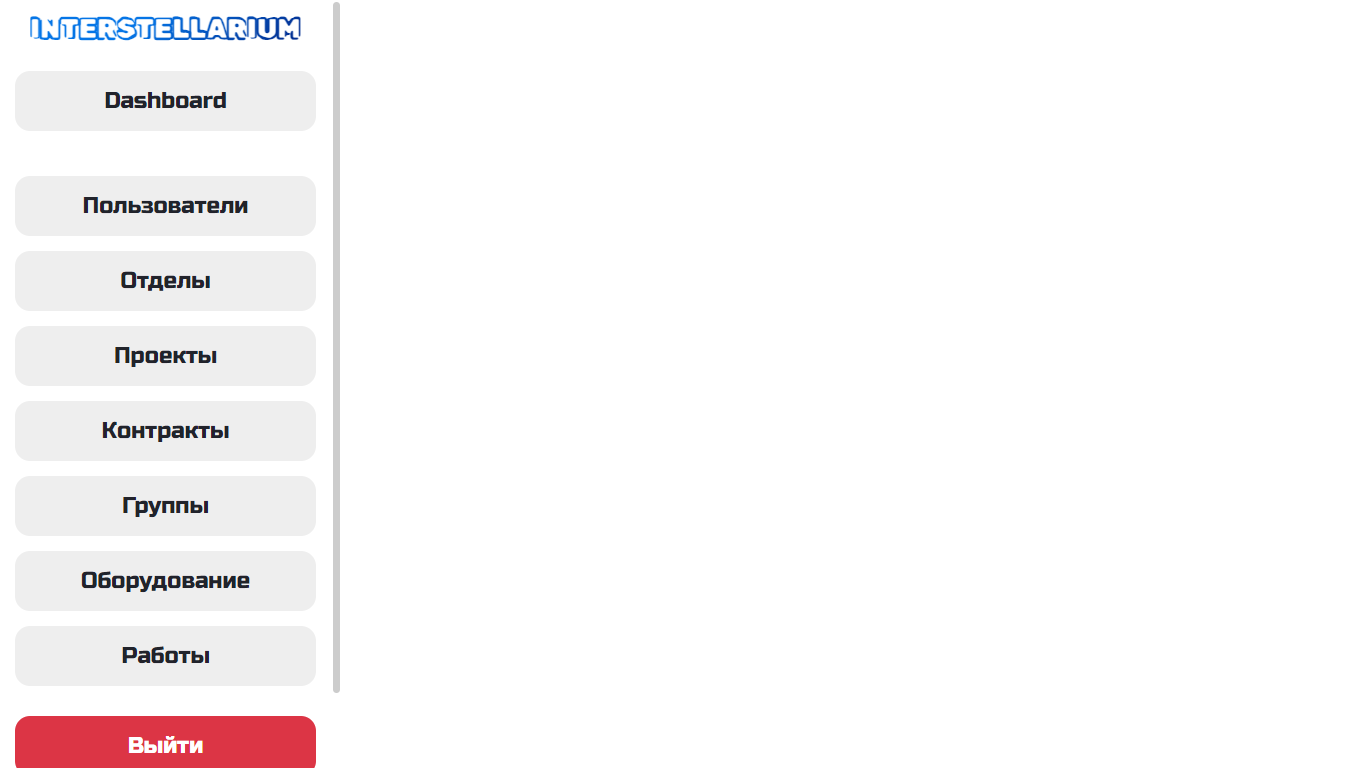
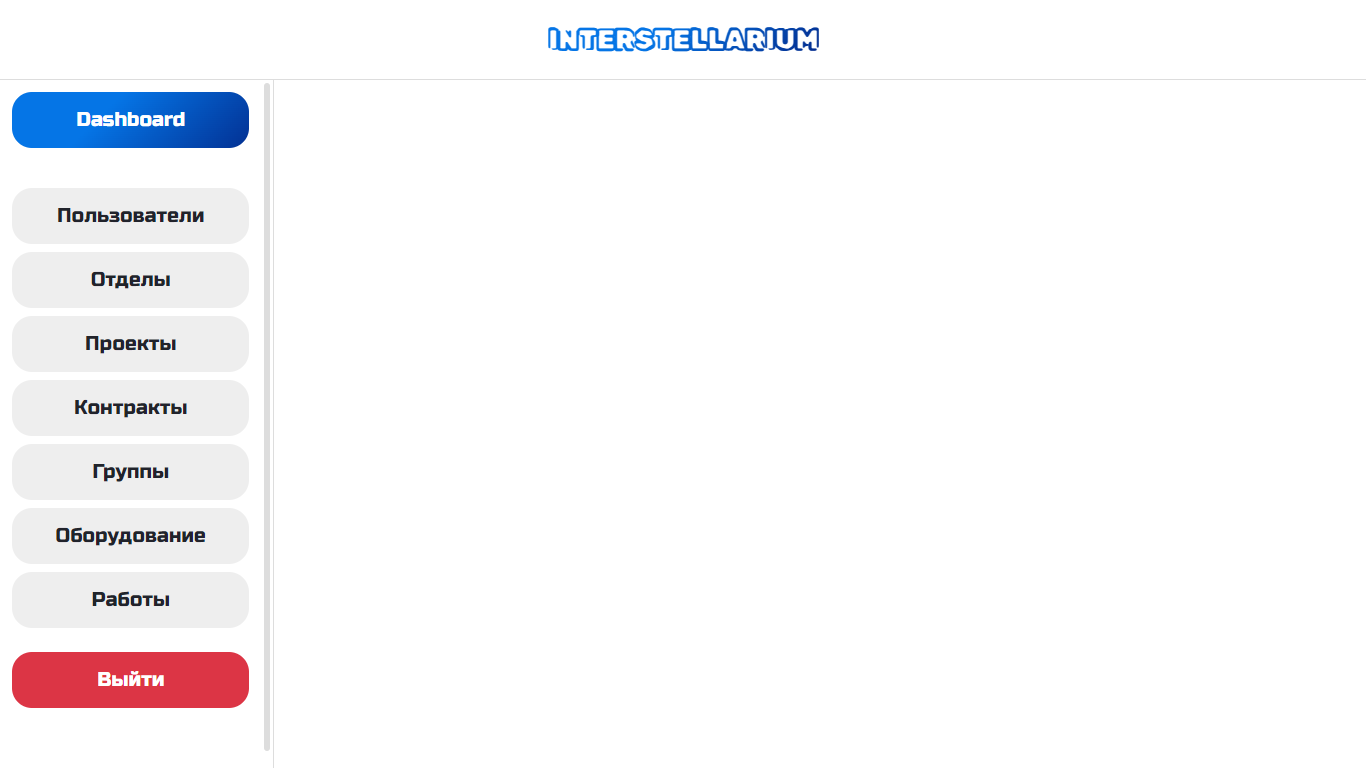
Update styles and components

diff --git a/src/styles/dashboard.css b/src/styles/dashboard.css
@@ -11,17 +11,37 @@
     width: 100%;
 }
 
-.interstellarium-dashboard-sidebar {
+.interstellarium-dashboard-header {
     position: fixed;
     top: 0;
-    bottom: 0;
     left: 0;
+    right: 0;
+    height: 5rem;
+    display: flex;
+    justify-content: center;
+    align-items: center;
+    border-bottom: 1px solid #DDDDDD;
+}
+
+.interstellarium-dashboard-sidebar, .interstellarium-dashboard-main {
+    position: fixed;
+    top: 5rem;
+    bottom: 0;
     width: 100%;
     overflow: auto;
     display: flex;
     flex-direction: column;
     align-items: stretch;
     background-color: white;
+}
+
+.interstellarium-dashboard-sidebar {
+    left: 0;
+}
+
+.interstellarium-dashboard-main {
+    border-left: 1px solid #DDDDDD;
+    right: 0;
 }
 
 .interstellarium-dashboard-sidebar.hidden,
@@ -36,16 +56,6 @@
     padding-bottom: 5rem;
 }
 
-.interstellarium-dashboard-main {
-    position: fixed;
-    top: 0;
-    bottom: 0;
-    right: 0;
-    width: 100%;
-    overflow: auto;
-    background-color: white;
-}
-
 .interstellarium-dashboard-footer {
     position: fixed;
     bottom: 0;
@@ -57,19 +67,29 @@
     align-items: center;
 }
 
-.interstellarium-dashboard-header {
-    display: flex;
-    justify-content: center;
-    align-items: center;
-    flex-direction: column;
+.interstellarium-dashboard-sidebar::-webkit-scrollbar,
+.interstellarium-dashboard-main::-webkit-scrollbar {
+    width: 12px;
+}
+
+.interstellarium-dashboard-sidebar::-webkit-scrollbar-track,
+.interstellarium-dashboard-main::-webkit-scrollbar-track {
+    background: #FFF;
+}
+
+.interstellarium-dashboard-sidebar::-webkit-scrollbar-thumb,
+.interstellarium-dashboard-main::-webkit-scrollbar-thumb {
+    background-color: #DDDDDD;
+    border-radius: 20px;
+    border: 3px solid #FFF;
 }
 
 .interstellarium-dashboard-sidebar-card {
-    min-height: 8rem;
+    min-height: 6rem;
     border-radius: 2rem;
     background-color: #EEEEEE;
     color: white;
-    padding: 1rem;
+    padding: 0.75rem;
     margin-bottom: -0.5rem;
     background-clip: content-box;
     cursor: pointer;
@@ -86,33 +106,16 @@
     font-family: var(--interstellarium-work-font-family), sans-serif;
     text-decoration: none;
     color: var(--interstellarium-dark);
-    font-size: 1.75rem;
+    font-size: 1.5rem;
 }
 
 @media (min-width: 768px) {
     .interstellarium-dashboard-sidebar {
-        width: 25%;
-    }
-
-    .interstellarium-dashboard-sidebar::-webkit-scrollbar,
-    .interstellarium-dashboard-main::-webkit-scrollbar {
-        width: 12px;
-    }
-
-    .interstellarium-dashboard-sidebar::-webkit-scrollbar-track,
-    .interstellarium-dashboard-main::-webkit-scrollbar-track {
-        background: #FFF;
-    }
-
-    .interstellarium-dashboard-sidebar::-webkit-scrollbar-thumb,
-    .interstellarium-dashboard-main::-webkit-scrollbar-thumb {
-        background-color: #CCC;
-        border-radius: 20px;
-        border: 3px solid #FFF;
+        width: 40%;
     }
 
     .interstellarium-dashboard-main {
-        width: 75%;
+        width: 60%;
     }
 
     .interstellarium-dashboard-footer {
@@ -124,21 +127,30 @@
         display: flex;
     }
 
-    .interstellarium-dashboard-logo {
-        font-size: 2vw;
-    }
-
     .interstellarium-dashboard-sidebar-card {
         min-height: 6rem;
         margin-bottom: -1rem;
     }
 
     .interstellarium-dashboard-sidebar-card-link {
-        font-size: 1rem;
+        font-size: 1.5rem;
     }
 }
 
 @media (min-width: 992px) {
+    .interstellarium-dashboard-sidebar {
+        width: 25%;
+    }
+
+    .interstellarium-dashboard-main {
+        width: 75%;
+    }
+
+    .interstellarium-dashboard-sidebar-card {
+        min-height: 5rem;
+        margin-bottom: -1rem;
+    }
+
     .interstellarium-dashboard-sidebar-card-link {
         font-size: 1.25rem;
     }
@@ -149,13 +161,21 @@
         width: 20%;
     }
 
+    .interstellarium-dashboard-main {
+        width: 80%;
+    }
+
     .interstellarium-dashboard-sidebar-card-link {
-        font-size: 1.5rem;
+        font-size: 1.25rem;
     }
 }
 
 @media (min-width: 1440px) {
     .interstellarium-dashboard-sidebar {
         width: 15%;
+    }
+
+    .interstellarium-dashboard-main {
+        width: 85%;
     }
 }

diff --git a/src/components/dashboard/Logo.vue b/src/components/dashboard/Logo.vue
@@ -6,7 +6,7 @@
 
 <template>
   <div class="interstellarium-dashboard-logo-wrapper">
-    <div class="interstellarium-dashboard-logo m-2">
+    <div class="interstellarium-dashboard-logo">
       INTERSTELLARIUM
     </div>
   </div>
@@ -15,7 +15,7 @@
 <style scoped>
 .interstellarium-dashboard-logo {
     font-family: var(--interstellarium-special-font-family), sans-serif;
-    font-size: max(2vw, 3.2vh);
+    font-size: 6vw;
     font-weight: 900;
     text-align: center;
     background: var(--interstellarium-gradient);
@@ -25,25 +25,33 @@
     color: var(--interstellarium-primary);
 }
 
+@media (min-width: 576px) {
+    .interstellarium-dashboard-logo {
+        font-size: 4.5vw;
+    }
+}
+
 @media (min-width: 768px) {
     .interstellarium-dashboard-logo {
-        font-size: 2vw;
+        font-size: 3vw;
     }
-  
-    .interstellarium-dashboard-main .interstellarium-dashboard-logo-wrapper {
-        display: none;
+}
+
+@media (min-width: 992px) {
+    .interstellarium-dashboard-logo {
+        font-size: 2vw;
     }
 }
 
 @media (min-width: 1200px) {
     .interstellarium-dashboard-logo {
-        font-size: 1.1vw;
+        font-size: 2vw;
     }
 }
 
 @media (min-width: 1440px) {
     .interstellarium-dashboard-logo {
-        font-size: 1.2vw;
+        font-size: 1.5vw;
     }
 }
 </style>

diff --git a/src/components/dashboard/Sidebar.vue b/src/components/dashboard/Sidebar.vue
@@ -27,11 +27,11 @@
 <template>
   <div class="interstellarium-dashboard-sidebar hidden" id="dashboard-sidebar">
     <div class="interstellarium-dashboard-header">
-      <DashboardLogo/>
+      <DashboardLogo></DashboardLogo>
     </div>
     <div class="interstellarium-dashboard-sidebar-content">
-      <div @click="this.$router.push({name: 'Dashboard'})" class="interstellarium-dashboard-sidebar-card col-12 mb-3">
-        <div class="interstellarium-link interstellarium-dashboard-sidebar-card-link">
+      <div @click="this.$router.push({name: 'Dashboard'})" class="interstellarium-dashboard-sidebar-card col-12 mb-3 bg-interstellarium">
+        <div class="interstellarium-link interstellarium-dashboard-sidebar-card-link text-white">
           Dashboard
         </div>
       </div>

diff --git a/src/components/dashboard/Main.vue b/src/components/dashboard/Main.vue
@@ -1,7 +1,7 @@
 <script>
   import DashboardShowSidebar from "./ShowSidebar.vue";
-  import DashboardLogo from "./Logo.vue";
-  
+  import DashboardLogo from "../../components/dashboard/Logo.vue";
+
   export default {
     components: {
       DashboardLogo,
@@ -13,13 +13,13 @@
 <template>
   <div class="interstellarium-dashboard-main" id="dashboard-main">
     <div class="interstellarium-dashboard-header">
-      <DashboardLogo/>
+      <DashboardLogo></DashboardLogo>
     </div>
     <div class="interstellarium-dashboard-main-content">
       <slot></slot>
     </div>
     <div class="interstellarium-dashboard-footer">
-      <DashboardShowSidebar/>
+      <DashboardShowSidebar></DashboardShowSidebar>
     </div>
   </div>
 </template>

diff --git a/src/pages/Equipment.vue b/src/pages/Equipment.vue
@@ -14,6 +14,11 @@
         document.getElementById('app').className = 'dashboard'
     },
     
+    beforeRouteLeave: function () {
+        document.body.classList.remove('dashboard')
+        document.getElementById('app').classList.remove('dashboard')
+    },
+    
     setup() {
       document.title = 'Оборудование | Interstellarium'
     },

diff --git a/src/pages/Users.vue b/src/pages/Users.vue
@@ -14,6 +14,11 @@
         document.getElementById('app').className = 'dashboard'
     },
     
+    beforeRouteLeave: function () {
+        document.body.classList.remove('dashboard')
+        document.getElementById('app').classList.remove('dashboard')
+    },
+    
     setup() {
       document.title = 'Пользователи | Interstellarium'
     },

diff --git a/src/pages/Contracts.vue b/src/pages/Contracts.vue
@@ -14,6 +14,11 @@
         document.getElementById('app').className = 'dashboard'
     },
     
+    beforeRouteLeave: function () {
+        document.body.classList.remove('dashboard')
+        document.getElementById('app').classList.remove('dashboard')
+    },
+    
     setup() {
       document.title = 'Контракты | Interstellarium'
     },

diff --git a/src/pages/Projects.vue b/src/pages/Projects.vue
@@ -14,6 +14,11 @@
         document.getElementById('app').className = 'dashboard'
     },
     
+    beforeRouteLeave: function () {
+        document.body.classList.remove('dashboard')
+        document.getElementById('app').classList.remove('dashboard')
+    },
+    
     setup() {
       document.title = 'Проекты | Interstellarium'
     },

diff --git a/src/pages/Departments.vue b/src/pages/Departments.vue
@@ -14,6 +14,11 @@
         document.getElementById('app').className = 'dashboard'
     },
     
+    beforeRouteLeave: function () {
+        document.body.classList.remove('dashboard')
+        document.getElementById('app').classList.remove('dashboard')
+    },
+    
     setup() {
       document.title = 'Отделы | Interstellarium'
     },

diff --git a/src/pages/Groups.vue b/src/pages/Groups.vue
@@ -14,6 +14,11 @@
         document.getElementById('app').className = 'dashboard'
     },
     
+    beforeRouteLeave: function () {
+        document.body.classList.remove('dashboard')
+        document.getElementById('app').classList.remove('dashboard')
+    },
+    
     setup() {
       document.title = 'Группы | Interstellarium'
     },

diff --git a/src/pages/Works.vue b/src/pages/Works.vue
@@ -14,6 +14,11 @@
         document.getElementById('app').className = 'dashboard'
     },
     
+    beforeRouteLeave: function () {
+        document.body.classList.remove('dashboard')
+        document.getElementById('app').classList.remove('dashboard')
+    },
+    
     setup() {
       document.title = 'Работы | Interstellarium'
     },

diff --git a/src/pages/Dashboard.vue b/src/pages/Dashboard.vue
@@ -14,6 +14,11 @@
         document.getElementById('app').className = 'dashboard'
     },
     
+    beforeRouteLeave: function () {
+        document.body.classList.remove('dashboard')
+        document.getElementById('app').classList.remove('dashboard')
+    },
+    
     setup() {
       document.title = 'Dashboard | Interstellarium'
     },
